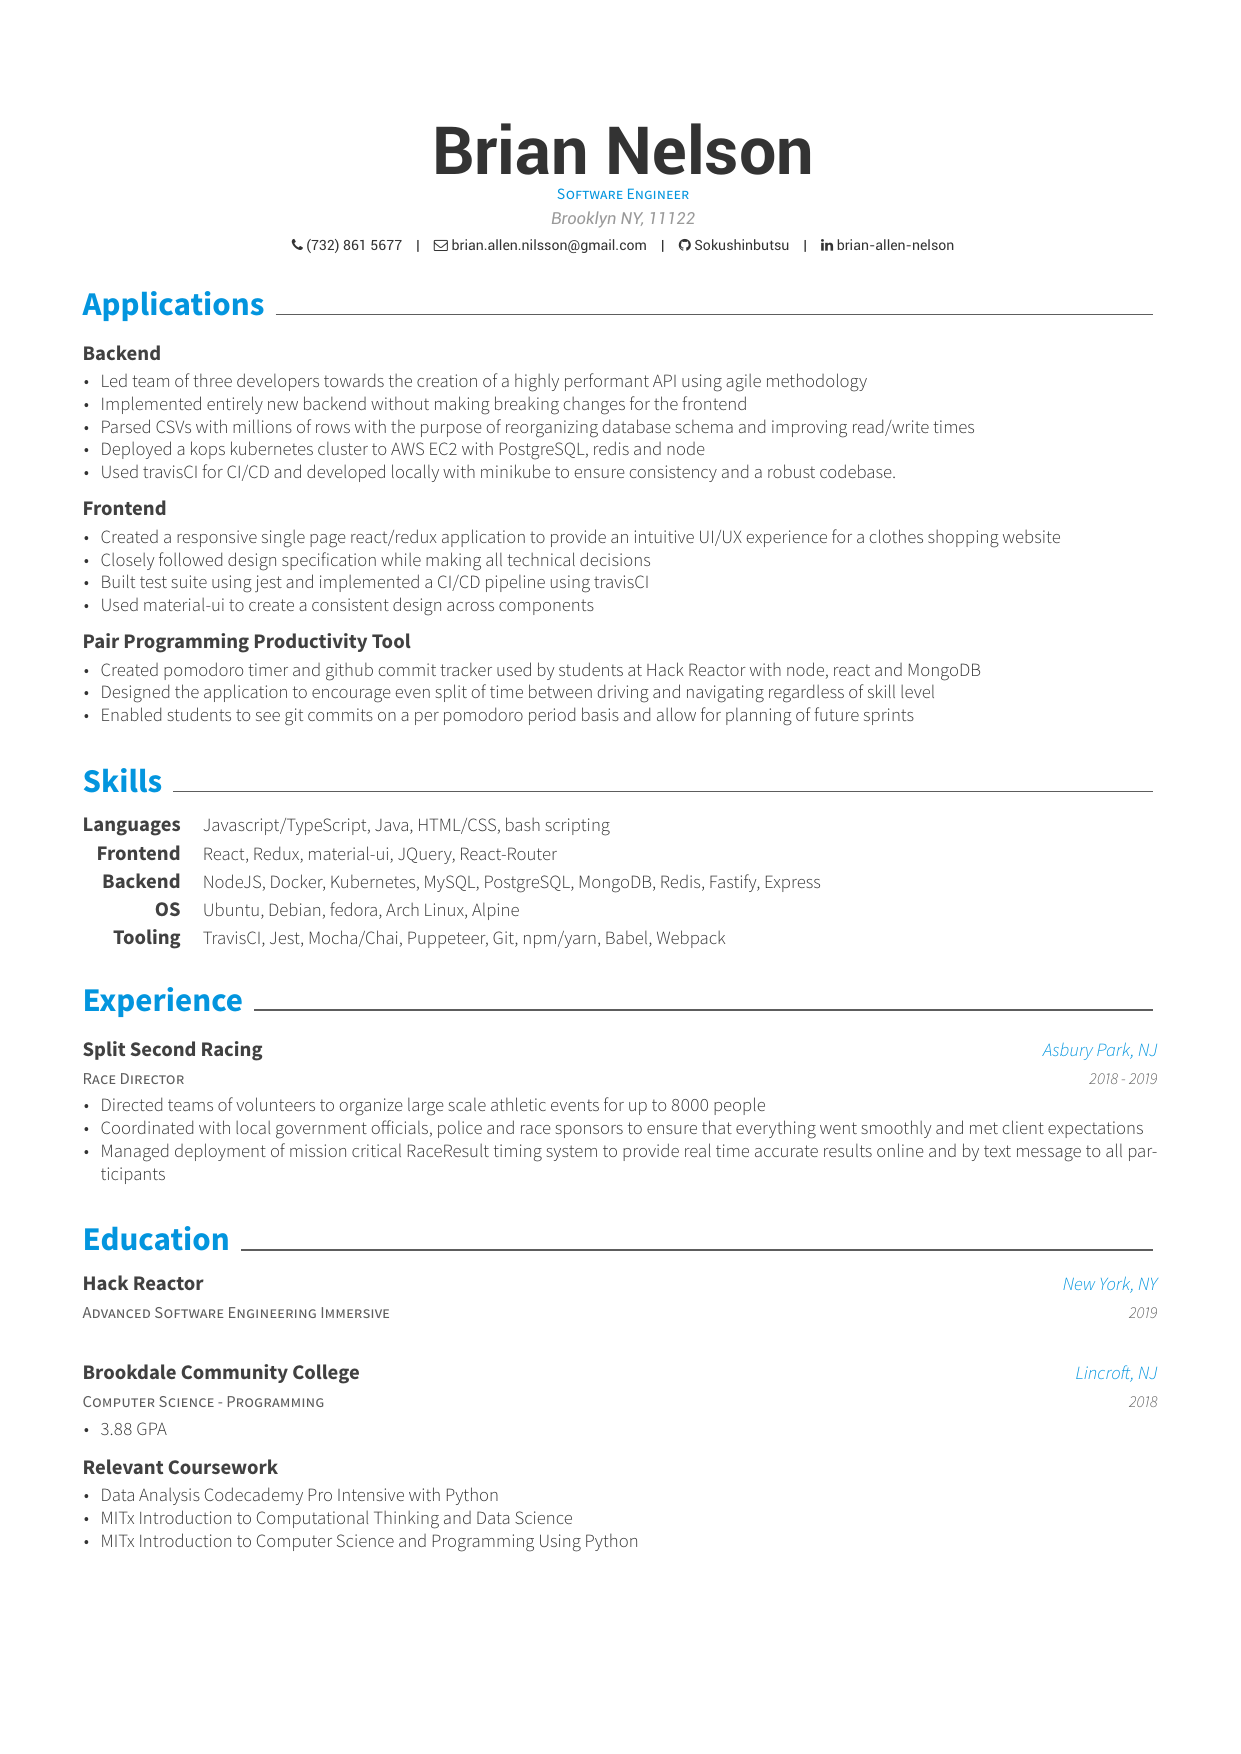
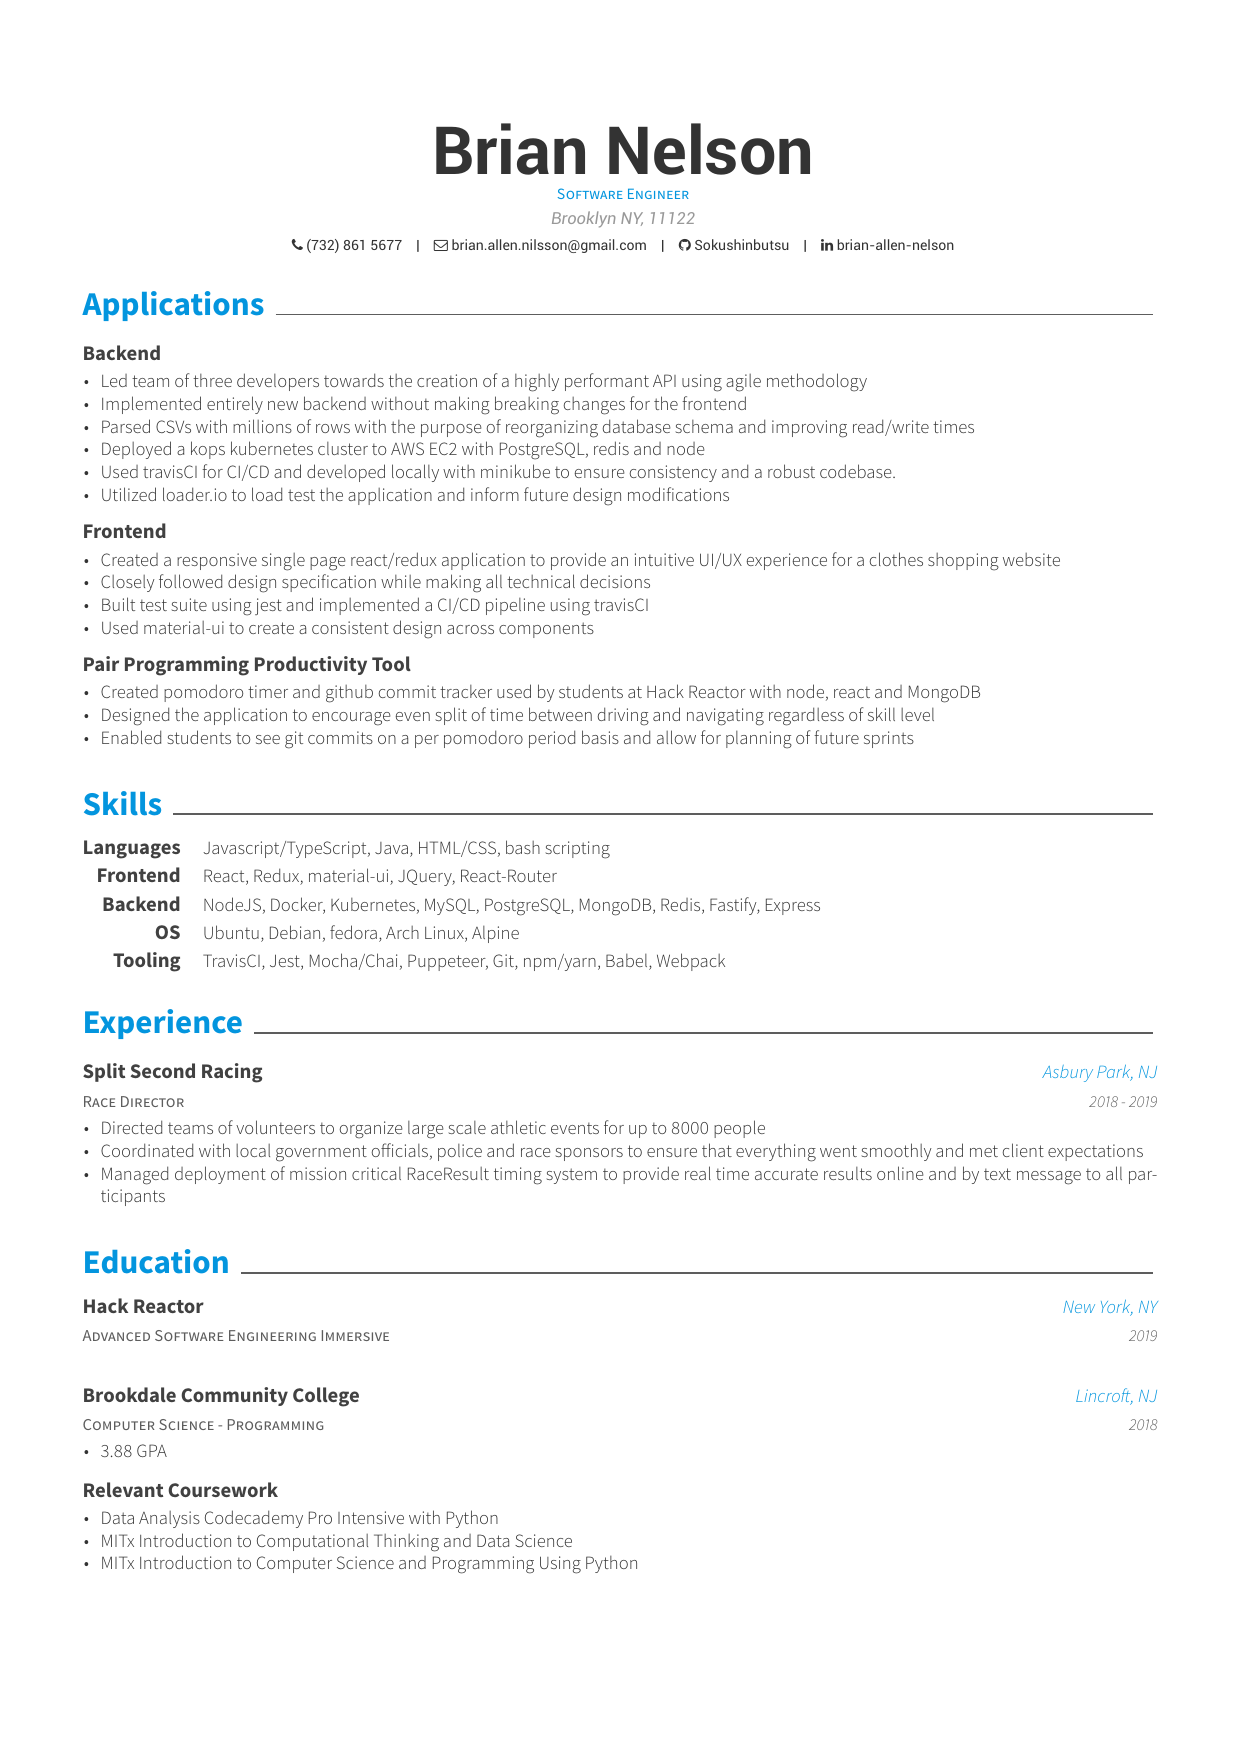
added load testings to backend

Changed region(s): [[0.0612, 0.2771, 0.9492, 0.8928], [0.8574, 0.7081, 0.9492, 0.8005], [0.7655, 0.3079, 0.8268, 0.3387]]

diff --git a/resume/applications.tex b/resume/applications.tex
@@ -12,7 +12,8 @@
         \item {Implemented entirely new backend without making breaking changes for the frontend}
 		\item {Parsed CSVs with millions of rows with the purpose of reorganizing database schema and improving read/write times}
 		\item {Deployed a kops kubernetes cluster to AWS EC2 with PostgreSQL, redis and node}
-		\item {Used travisCI for CI/CD and developed locally with minikube to ensure consistency and a robust codebase.}
+    \item {Used travisCI for CI/CD and developed locally with minikube to ensure consistency and a robust codebase.}
+    \item {Utilized loader.io to load test the application and inform future design modifications}
       \end{cvitems}
     }
   
